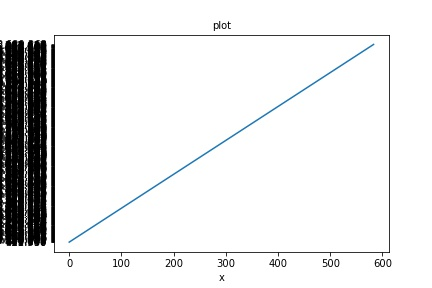
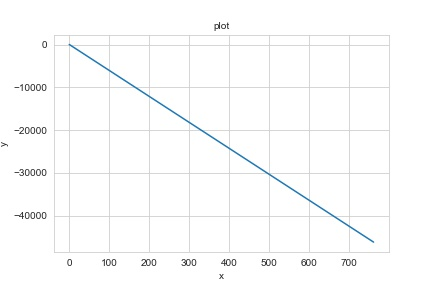
first trial for plots

diff --git a/Toml-part3/plotdata.py b/Toml-part3/plotdata.py
@@ -20,34 +20,7 @@ def sensorData():
                ]
     return b.prepareData(listfiles, ";")
 
-def boxplot(data,x,y,title,delete,save):
-    p=dp.BoxPlotter()
-    p.labels(x, y)
-    p.title(title)
-    p.show(data,delete=delete,save=save)
-    
-def scatterplot(data,x,y,title,delete,save):
-    p=dp.ScatterPlotter()
-    p.labels(x, y)
-    p.title(title)
-    p.show(data,delete=delete,save=save)
-    
-def pairplot(data,x,y,title,delete,save):
-    p=dp.PairPlotter()
-    p.labels(x, y)
-    p.title(title)
-    p.show(data,delete=delete,save=save)
-    
-def lineplot(data,x,y,title,delete,save):
-    p=dp.LinePlotter()
-    p.labels(x, y)
-    p.title(title)
-    p.show(data,delete=delete,save=save)
-    
-def heatmap(data,title,delete,save):
-    p=dp.HeatMap()
-    p.title(title)
-    p.show(data,delete=delete,save=save)
+
     
 data=sensorData()
 refSt="RefSt"
@@ -65,20 +38,20 @@ labels=["Temp",
 delete=True
 save=True
 
-heatmap(data,"Correlation", delete, save)
+dp.heatmap(data,"Correlation", delete, save)
 delete=False
 
 b.addTime(data)
 b.addNormalizedData(data)
 
 for label in labels:
-    scatterplot(data,label,refSt,label+" - SensorO3",delete,save)
-    scatterplot(data,label,o3,label+" - RefSt",delete,save)  
+    dp.scatterplot(data,label,refSt,label+" - SensorO3",delete,save)
+    dp.scatterplot(data,label,o3,label+" - RefSt",delete,save)  
 
-scatterplot(data,o3,refSt, o3+" - "+refSt, delete, save)
-scatterplot(data,"normalizedO3","normalizedRefSt", "normalizedO3 - normalizedRefSt", delete, save)
+dp.scatterplot(data,o3,refSt, o3+" - "+refSt, delete, save)
+dp.scatterplot(data,"normalizedO3","normalizedRefSt", "normalizedO3 - normalizedRefSt", delete, save)
    
-lineplot(data,o3,time,o3+" on "+time,delete,save)
-lineplot(data,refSt,time,refSt+" on "+time,delete,save)
+dp.lineplot(data,o3,time,o3+" on "+time,delete,save)
+dp.lineplot(data,refSt,time,refSt+" on "+time,delete,save)
 
 

diff --git a/Toml-part3/fplotter.py b/Toml-part3/fplotter.py
@@ -1,0 +1,50 @@
+# -*- coding: utf-8 -*-
+"""
+Created on Thu Apr 21 10:02:51 2022
+
+@author: Marco-PC
+"""
+
+from matplotlib import pyplot as plt
+import numpy as np
+import os
+import shutil as sh
+
+class Plotter:
+    def __init__(self,funx,funy):
+        self.funx=funx
+        self.funy=funy
+        self.xlab="x"
+        self.ylab="y"
+        self.title="plot"
+        self.size=10
+        self.limitx=(None,None)
+        self.limity=(None,None)
+        
+    def show(self,nmin,nmax,step,delete=False):
+        n=np.arange(nmin,nmax,step)
+        x=self.funx(n)
+        y=self.funy(n)
+        fig=plt.figure()
+        plt.plot(x,y)
+        plt.xlabel(self.xlab,fontSize=self.size)
+        plt.ylabel(self.ylab,fontSize=self.size)
+        plt.title(self.title, fontSize=self.size)
+        if(os.path.exists("./plots") and delete):
+            sh.rmtree("./plots")
+            os.mkdir("./plots")
+        fig.savefig("./plots/"+self.title+".jpg")
+        plt.show()
+        
+    def labels(self,xlab,ylab):
+        self.xlab=xlab
+        self.ylab=ylab
+        
+    def fontSize(self,size):
+        self.size=size
+     
+    def limits(self,xmin,xmax,ymin,ymax):
+        self.limitx=(xmin,xmax)
+        self.limity=(ymin,ymax)
+        
+        

diff --git a/Toml-part3/mlr.py b/Toml-part3/mlr.py
@@ -25,29 +25,32 @@ def sensorData():
 print("\n\n\nLINEAR REGRESSION WITHOUT REGULARIZATION\n\n\n")
 data=sensorData()
 data=data.drop(["date"],axis=1)
-linearRegr=lm.LinearRegression(data,0.7,"Sensor_O3")
+linearRegr=lm.LinearRegression(data,0.7,"Sensor_O3",alpha=5)
 linearRegr.noRegularization()
 model=linearRegr.makeModel()
 res=model.predict()
 res.printRes()
 print(model.trainingSet)
+model.plot()
 
 print("\n\n\nLINEAR REGRESSION WITH LASSO\n\n\n")
 data=sensorData()
 data=data.drop(["date"],axis=1)
-linearRegr=lm.LinearRegression(data,0.7,"Sensor_O3")
+linearRegr=lm.LinearRegression(data,0.7,"Sensor_O3",alpha=5)
 linearRegr.useLasso()
 model=linearRegr.makeModel()
 res=model.predict()
 res.printRes()
 print(model.trainingSet)
+model.plot()
 
 print("\n\n\nLINEAR REGRESSION WITH RIDGE REGRESSION\n\n\n")
 data=sensorData()
 data=data.drop(["date"],axis=1)
-linearRegr=lm.LinearRegression(data,0.7,"Sensor_O3")
+linearRegr=lm.LinearRegression(data,0.7,"Sensor_O3",alpha=5)
 linearRegr.useRidgeRegression()
 model=linearRegr.makeModel()
 res=model.predict()
 res.printRes()
 print(model.trainingSet)
+model.plot()

diff --git a/Toml-part3/base.py b/Toml-part3/base.py
@@ -6,6 +6,7 @@ from sklearn.feature_selection import SelectFromModel as forwardSelection
 from sklearn.model_selection import train_test_split as datasetSplit
 from sklearn.preprocessing import StandardScaler
 import math
+import fplotter as fp
 
 def calcNormalizedData(data):
     mean=np.mean(data);
@@ -110,11 +111,15 @@ class Model:
         rsquare=skm.r2_score(actual, prediction)
         rmse=math.sqrt(skm.mean_squared_error(actual,prediction))
         mae=skm.mean_absolute_error(actual,prediction)
-#        prob=self.model.predict_proba(self.testSet)
+        #prob=self.model.predict_proba(self.testSet)
         return Results(dt,score,rsquare,rmse,mae)        
     
     def plot(self):
-        pass
+        coeff=self.getCoefficients()
+        b0=coeff[0]
+        b1=coeff[1]
+        plot=fp.Plotter(lambda x:x,lambda x:b0+b1*x)
+        plot.show(0, len(self.trainingSet),1)
     
 class Results:
     def __init__(self,prediction,score,rsquare,rmse,mae):

diff --git a/Toml-part3/dplotter.py b/Toml-part3/dplotter.py
@@ -147,3 +147,32 @@ class HeatMap(Plotter):
             os.mkdir("./plot")
         #plt.show()
         fig.savefig(self.ptitle+".jpg")
+        
+def boxplot(data,x,y,title,delete,save):
+    p=BoxPlotter()
+    p.labels(x, y)
+    p.title(title)
+    p.show(data,delete=delete,save=save)
+    
+def scatterplot(data,x,y,title,delete,save):
+    p=ScatterPlotter()
+    p.labels(x, y)
+    p.title(title)
+    p.show(data,delete=delete,save=save)
+    
+def pairplot(data,x,y,title,delete,save):
+    p=PairPlotter()
+    p.labels(x, y)
+    p.title(title)
+    p.show(data,delete=delete,save=save)
+    
+def lineplot(data,x,y,title,delete,save):
+    p=LinePlotter()
+    p.labels(x, y)
+    p.title(title)
+    p.show(data,delete=delete,save=save)
+    
+def heatmap(data,title,delete,save):
+    p=HeatMap()
+    p.title(title)
+    p.show(data,delete=delete,save=save)
